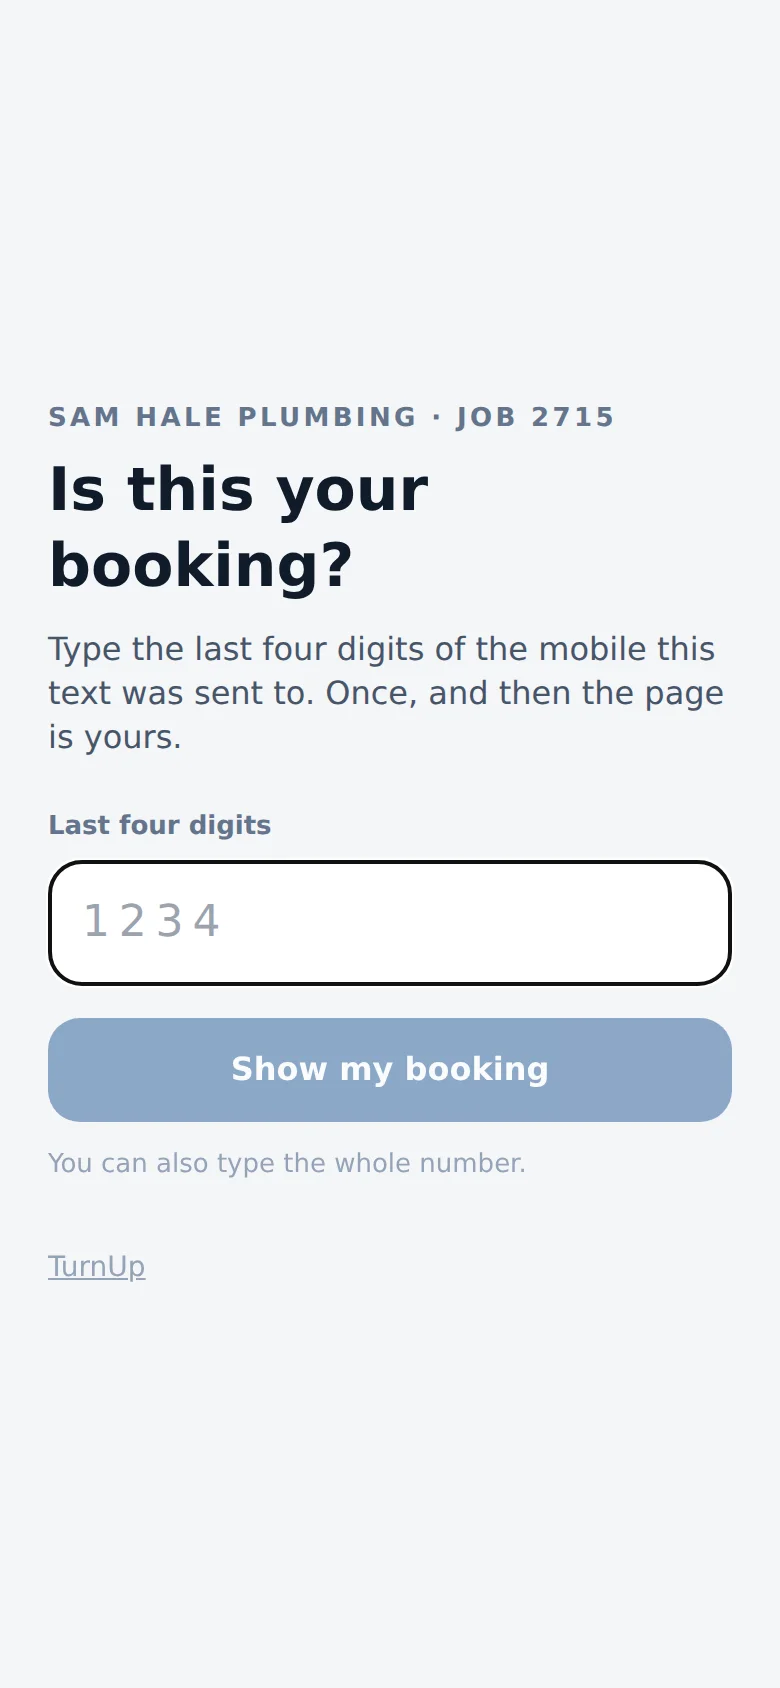
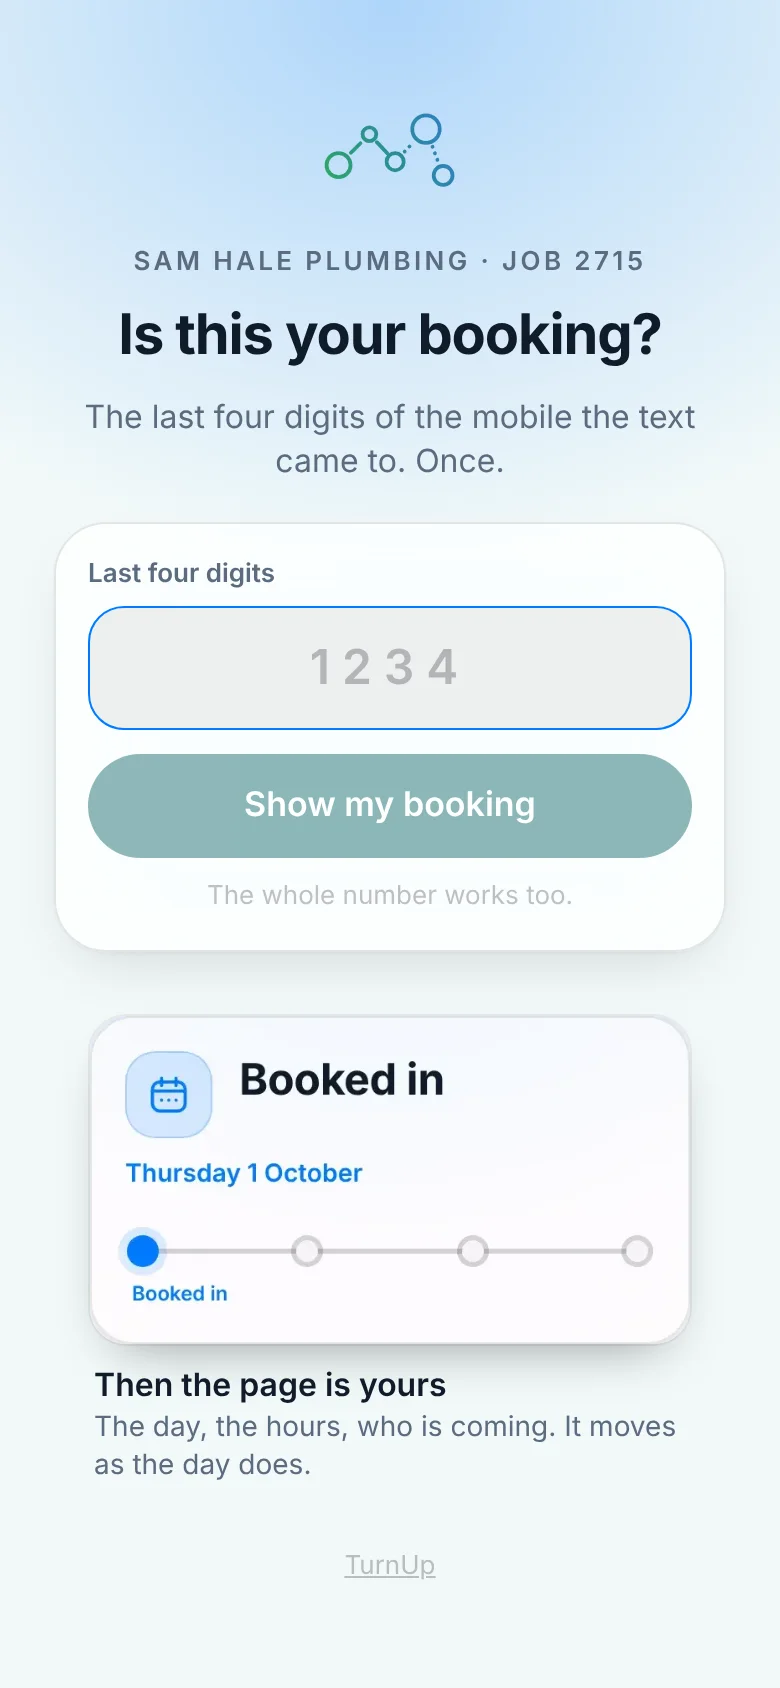
v1.47.0: the /j/ claim page in the app's look, with the card it unlocks
The page a customer lands on from the ServiceM8 text was still drawn in
the old slate-and-brand-blue style, with three sentences above a box. It
now looks like the page it leads to and shows that page.

- Glass card over the stage wash, Booked in's tint, the TurnUp mark, the
  trade name and job number as the eyebrow
- One line: the last four digits of the mobile the text came to. Once.
- Under the box, Shot's stage-booked card ("Then the page is yours") so
  the digits have a visible reason before anyone types
- The dead ends (incomplete link, not connected, no such job, still a
  quote, cancelled, unavailable) say one line and show the number to ring
- /with-servicem8 step 3 re-shot: public/with-servicem8/claim.webp and the
  sm8-claim crop (box moved to the new layout)
- Theme index 29, changelog, diary v1.47.0 (nothing missing), CLAUDE.md

Claude-Session: https://claude.ai/code/session_01FNmMCoj3BoGvcPMo93WRww

diff --git a/src/app/j/[...ref]/page.js b/src/app/j/[...ref]/page.js
@@ -2,6 +2,8 @@ import { redirect } from 'next/navigation'
 import Link from 'next/link'
 import { sm8Configured, fetchJob, fetchJobContact, phoneMatches, findOrCreateForJob } from '@/lib/servicem8'
 import { TRADE_NAME, TRADE_PHONE, TRADE_PHONE_TEL } from '@/lib/trade'
+import Mark from '@/components/Mark'
+import Shot from '@/components/Shot'
 import Claim from './Claim'
 
 export const dynamic = 'force-dynamic'
@@ -19,19 +21,39 @@ export const metadata = { title: 'Your booking | TurnUp', robots: { index: false
  * of the mobile ServiceM8 sent the text to, once, and lands on the real page.
  * If the template also wrote the mobile into the link, that check passes on
  * its own and nobody types anything.
+ *
+ * Drawn like the page it leads to (the glass, the wash, Booked in's tint),
+ * with a picture of that page under the box, so the person who just tapped
+ * a link from a text can see what the four digits are for before typing.
  */
-function Shell({ title, children }) {
+function Shell({ eyebrow, title, children, picture = false }) {
   return (
-    <main className="mx-auto flex min-h-screen max-w-xl flex-col justify-center px-6 py-12 text-center">
-      <h1 className="text-3xl font-bold">{title}</h1>
-      <div className="mt-4 text-slate-600">{children}</div>
+    <div className="tone-booked relative min-h-screen">
+      <div className="stage-wash" aria-hidden="true" />
+      <main className="relative z-10 mx-auto flex min-h-screen max-w-sm flex-col justify-center px-6 py-10">
+        <Mark className="mx-auto h-12 w-auto" id="claim" />
+        {eyebrow && <p className="mt-6 text-center text-[13px] font-semibold uppercase tracking-[0.13em] muted">{eyebrow}</p>}
+        <h1 className="mt-2 text-center text-[28px] font-bold leading-tight tracking-[-0.02em]">{title}</h1>
+        {children}
+        {picture && (
+          /* The page the digits unlock. The same card the customer's page draws, from the fixture. */
+          <Shot name="stage-booked" label="Then the page is yours" note="The day, the hours, who is coming. It moves as the day does." className="mx-auto mt-8 max-w-[300px]" />
+        )}
+        <p className="mt-8 text-center text-[13px]" style={{ color: 'var(--label-3)' }}><Link href="/" className="underline">TurnUp</Link></p>
+      </main>
+    </div>
+  )
+}
+
+/* A dead end: one line, and the phone number, because that is what is left to do. */
+function Stop({ title, children }) {
+  return (
+    <Shell title={title}>
+      <p className="mt-3 text-center text-[16px] leading-snug muted">{children}</p>
       {TRADE_PHONE && (
-        <a href={`tel:${TRADE_PHONE_TEL}`} className="mx-auto mt-6 inline-block rounded-xl bg-brand-600 px-6 py-3 font-semibold text-white">
-          Call {TRADE_PHONE}
-        </a>
+        <a href={`tel:${TRADE_PHONE_TEL}`} className="btn accent-fill mx-auto mt-6 !px-6">Call {TRADE_PHONE}</a>
       )}
-      <p className="mt-8 text-sm text-slate-400"><Link href="/" className="underline">TurnUp</Link></p>
-    </main>
+    </Shell>
   )
 }
 
@@ -40,14 +62,14 @@ export default async function JobLinkPage({ params }) {
   const number = String(ref[0] || '').replace(/\D/g, '').slice(0, 12)
   const given = ref[1] ? decodeURIComponent(ref[1]) : ''
 
-  if (!number) return <Shell title="That link is incomplete">Open the link exactly as it was sent to you.</Shell>
-  if (!sm8Configured()) return <Shell title="Not switched on yet">{TRADE_NAME} has not connected ServiceM8 to TurnUp. Ring and someone will tell you where things are.</Shell>
+  if (!number) return <Stop title="That link is incomplete">Open it exactly as it was sent to you.</Stop>
+  if (!sm8Configured()) return <Stop title="Not switched on yet">{TRADE_NAME} has not connected ServiceM8 to TurnUp. Ring and ask where things are.</Stop>
 
   let job = null
-  try { job = await fetchJob({ number }) } catch (e) { console.error('j lookup:', e?.message) ; return <Shell title="Status unavailable right now">Try again in a minute.</Shell> }
-  if (!job) return <Shell title="No booking with that number">Check the link in your text, or ring and quote job {number}.</Shell>
-  if (job.status === 'Quote') return <Shell title="Not booked in yet">Job {number} is still a quote. Once it is booked, this link will show the day and follow the job.</Shell>
-  if (job.status === 'Unsuccessful') return <Shell title="This job was cancelled">If that is a surprise, ring and quote job {number}.</Shell>
+  try { job = await fetchJob({ number }) } catch (e) { console.error('j lookup:', e?.message) ; return <Stop title="Status unavailable right now">Try again in a minute.</Stop> }
+  if (!job) return <Stop title="No booking with that number">Check the link in your text, or ring and quote job {number}.</Stop>
+  if (job.status === 'Quote') return <Stop title="Not booked in yet">Job {number} is still a quote. Once it is booked, this link shows the day and follows the job.</Stop>
+  if (job.status === 'Unsuccessful') return <Stop title="This job was cancelled">If that is a surprise, ring and quote job {number}.</Stop>
 
   const contact = await fetchJobContact(job.uuid).catch(() => null)
   if (given && phoneMatches(contact, given)) {
@@ -56,14 +78,9 @@ export default async function JobLinkPage({ params }) {
   }
 
   return (
-    <main className="mx-auto flex min-h-screen max-w-md flex-col justify-center px-6 py-12">
-      <p className="text-[13px] font-semibold uppercase tracking-[0.13em] text-slate-500">{TRADE_NAME} · job {number}</p>
-      <h1 className="mt-2 text-3xl font-bold leading-tight">Is this your booking?</h1>
-      <p className="mt-3 text-[16px] leading-snug text-slate-600">
-        Type the last four digits of the mobile this text was sent to. Once, and then the page is yours.
-      </p>
+    <Shell eyebrow={`${TRADE_NAME} · job ${number}`} title="Is this your booking?" picture>
+      <p className="mt-3 text-center text-[16px] leading-snug muted">The last four digits of the mobile the text came to. Once.</p>
       <Claim number={number} />
-      <p className="mt-8 text-sm text-slate-400"><Link href="/" className="underline">TurnUp</Link></p>
-    </main>
+    </Shell>
   )
 }

diff --git a/src/app/j/[...ref]/Claim.jsx b/src/app/j/[...ref]/Claim.jsx
@@ -21,17 +21,19 @@ export default function Claim({ number }) {
   }
 
   return (
-    <form onSubmit={go} className="mt-6">
-      <label className="block text-[13px] font-semibold text-slate-500" htmlFor="digits">Last four digits</label>
+    <form onSubmit={go} className="glass r-outer mt-5 p-4">
+      <label className="block text-[13px] font-semibold muted" htmlFor="digits">Last four digits</label>
       <input id="digits" inputMode="numeric" autoComplete="off" pattern="[0-9 ]*" maxLength={14} value={digits}
              onChange={(e) => setDigits(e.target.value)} placeholder="1234" autoFocus
-             className="mt-1.5 w-full rounded-2xl border border-slate-200 bg-white px-4 py-3.5 text-[22px] tracking-[0.2em]" />
-      {err && <p className="mt-2 text-[14px] text-red-600">{err}</p>}
+             className="field mt-1.5 text-center !text-[24px] font-semibold tracking-[0.25em]" />
+      {err && (
+        <p className="r-inner mt-3 p-3 text-[14px]" style={{ background: 'color-mix(in srgb, #ff3b30 12%, transparent)', color: '#ff3b30' }}>{err}</p>
+      )}
       <button type="submit" disabled={busy || digits.replace(/\D/g, '').length < 4}
-              className="mt-4 w-full rounded-2xl bg-brand-600 px-6 py-3.5 text-[16px] font-semibold text-white disabled:opacity-50">
+              className="btn accent-fill mt-3 w-full disabled:opacity-50">
         {busy ? 'Checking…' : 'Show my booking'}
       </button>
-      <p className="mt-3 text-[13px] text-slate-400">You can also type the whole number.</p>
+      <p className="mt-2.5 text-center text-[13px]" style={{ color: 'var(--label-3)' }}>The whole number works too.</p>
     </form>
   )
 }

diff --git a/src/lib/version.js b/src/lib/version.js
@@ -16,7 +16,7 @@
  *
  * Adding one is welcome. Inventing one at runtime is not.
  */
-export const VERSION = '1.46.0'
+export const VERSION = '1.47.0'
 export const BUILD_DATE = '2026-10-12'
 
 export const THEMES = [
@@ -39,7 +39,7 @@ export const THEMES = [
 // those are fixed in globals.css, because they mean something, and a meaning
 // that changes colour every night is not a meaning. See the stage tint block
 // in src/app/globals.css.
-export const THEME_INDEX = 28
+export const THEME_INDEX = 29
 
 export const theme = () => THEMES[THEME_INDEX % THEMES.length]
 
@@ -48,6 +48,9 @@ export const theme = () => THEMES[THEME_INDEX % THEMES.length]
  * by the person who asked for it, not by a release manager.
  */
 export const CHANGELOG = [
+  { version: '1.47.0', date: '2026-10-12', notes: [
+    'The /j/ page, the one a customer lands on from the ServiceM8 text, drawn like the page it leads to: the glass, the wash, Booked in\'s blue, and under the four-digit box a picture of the card the digits unlock, so the person who just tapped a link can see what they are typing for. The words are shorter. The dead ends (no such job, still a quote, cancelled) say one line and show the number to ring.',
+  ] },
   { version: '1.46.0', date: '2026-10-12', notes: [
     'Switch link back on. A link switched off by mistake used to be dead and meant a new job; now Switch link back on sits where Switch link off was, under More, same size. A switched-off card says so in words — Link is off, the customer sees expired — rather than just going pale.',
   ] },

diff --git a/docs/diary/v1.47.0/README.md b/docs/diary/v1.47.0/README.md
@@ -1,0 +1,54 @@
+# v1.47.0 — Teal
+
+**2026-10-12** · background `#f2f9f9` · accent `#1f6f72`
+
+- The /j/ page, the one a customer lands on from the ServiceM8 text, drawn like the page it leads to: the glass, the wash, Booked in's blue, and under the four-digit box a picture of the card the digits unlock, so the person who just tapped a link can see what they are typing for. The words are shorter. The dead ends (no such job, still a quote, cancelled) say one line and show the number to ring.
+
+
+### wallet-in-stack
+
+![wallet-in-stack](./wallet-in-stack.webp)
+
+### wallet-opened
+
+![wallet-opened](./wallet-opened.webp)
+
+### wallet-alone
+
+![wallet-alone](./wallet-alone.webp)
+
+### customer-light
+
+![customer-light](./customer-light.webp)
+
+### customer-dark
+
+![customer-dark](./customer-dark.webp)
+
+### dashboard
+
+![dashboard](./dashboard.webp)
+
+### dashboard-setup
+
+![dashboard-setup](./dashboard-setup.webp)
+
+### login
+
+![login](./login.webp)
+
+### homepage
+
+![homepage](./homepage.webp)
+
+### homepage-dark
+
+![homepage-dark](./homepage-dark.webp)
+
+### household
+
+![household](./household.webp)
+
+### household-dark
+
+![household-dark](./household-dark.webp)

diff --git a/CLAUDE.md b/CLAUDE.md
@@ -896,6 +896,13 @@ attendance record are drawn in `src/app/dashboard/Pictures.jsx`. The banner word
 are the ones `src/lib/nudge.js` sends; change them there and the drawing follows by
 hand. A panel that needs a paragraph to explain itself wants a picture instead.
 
+The `/j/<job number>` claim page follows it too (v1.47.0): drawn as the customer's
+page is (glass, wash, `tone-booked`), one line, the box, and under it `Shot`'s
+`stage-booked` card so the digits have a visible reason. Its capture on
+`/with-servicem8` is `public/with-servicem8/claim.webp` from
+`scripts/capture-with-servicem8.mjs`, which needs a stand-in ServiceM8 on
+`SM8_API_BASE`; re-shoot it when that page changes.
+
 The wallet section (`src/components/WalletStory.jsx`) is drawn from
 `PassCard`, the same component the real pass is built from, so it cannot
 drift. It carries the same badges the posters do, and the lock screen shows

diff --git a/docs/diary/README.md b/docs/diary/README.md
@@ -20,6 +20,7 @@ the one thing this exists for.
 
 | Version | Date | Theme |
 |---|---|---|
+| [v1.47.0](./v1.47.0/) | 2026-10-12 | Teal — the /j/ claim page in the app's look, with the card it unlocks |
 | [v1.46.0](./v1.46.0/) | 2026-10-12 | Indigo — switch a job's link back on; a switched-off card says so in words |
 | [v1.45.0](./v1.45.0/) | 2026-10-12 | Indigo — the pilot in four numbers; the six moves reordered; the ask has a reader; every build updates the words |
 | [v1.44.0](./v1.44.0/) | 2026-10-12 | Indigo — the dashboard's setup panels in pictures |
